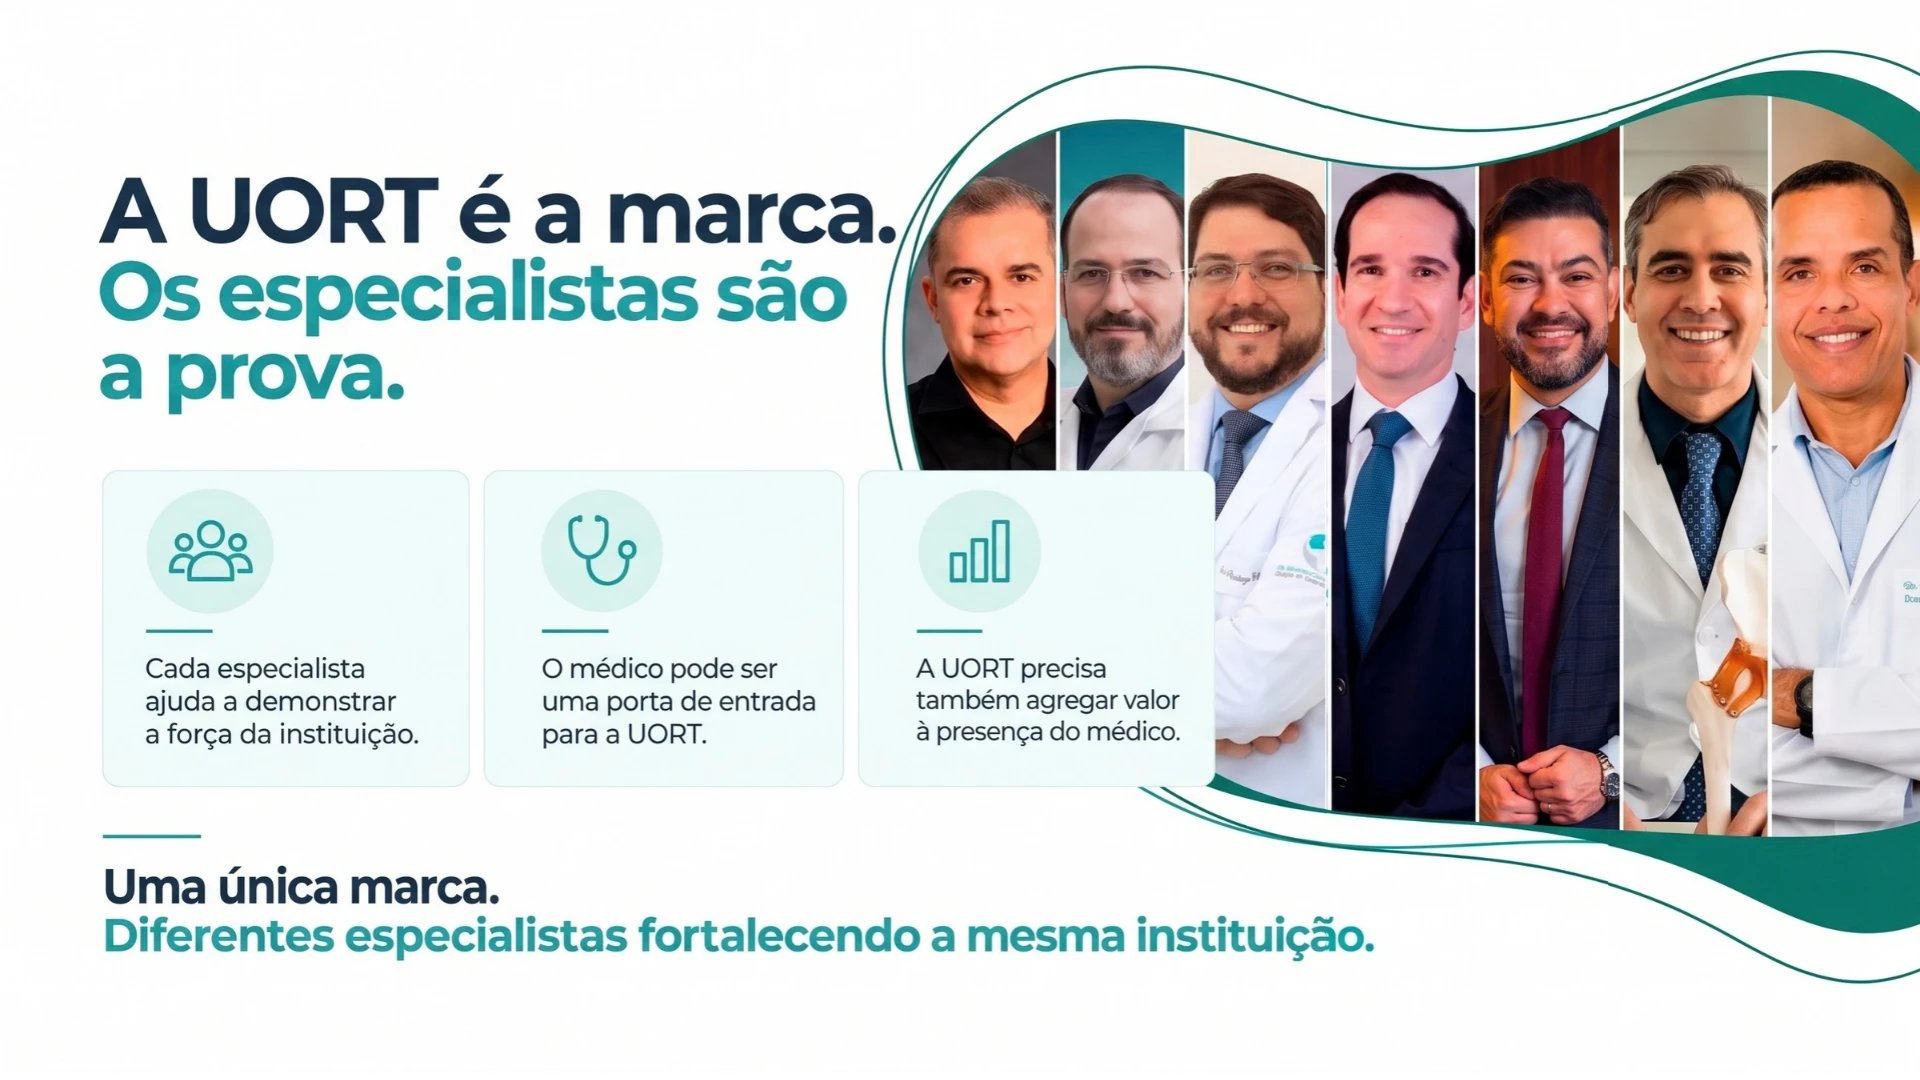
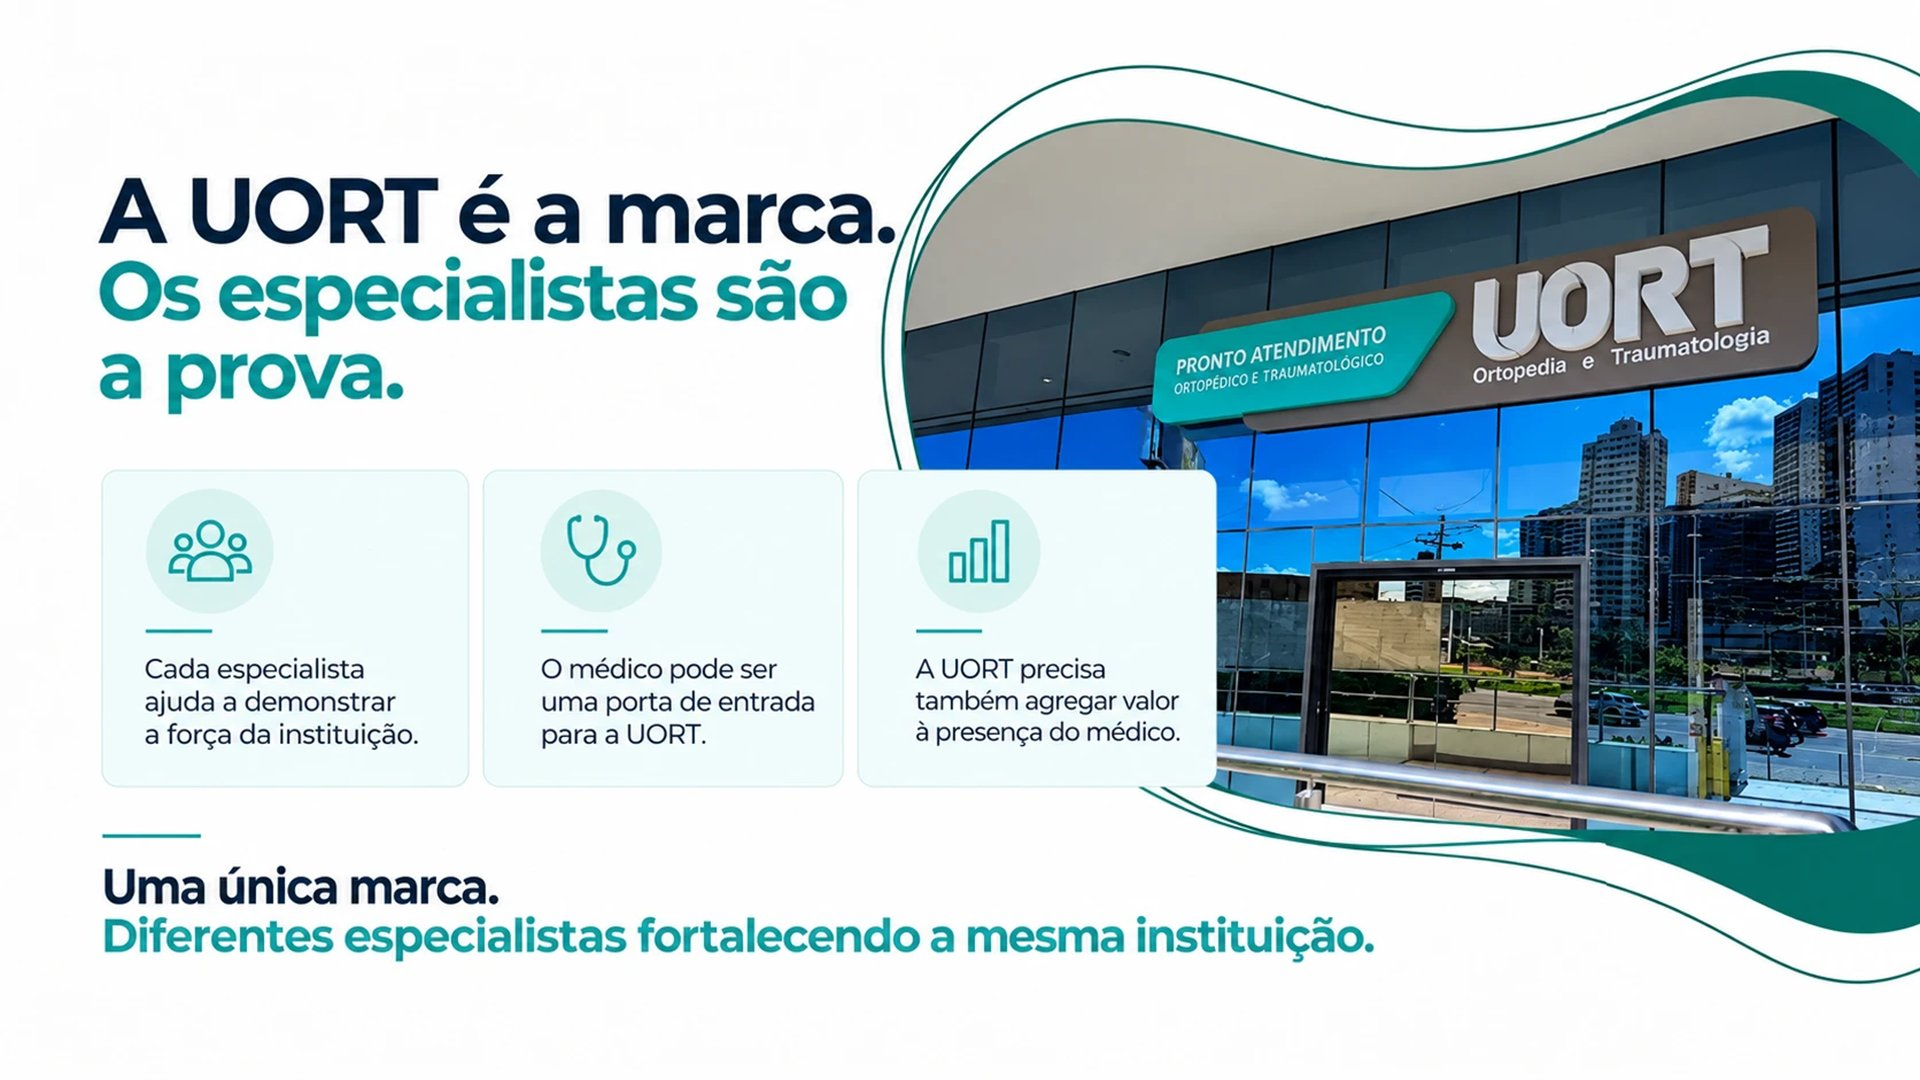
Nova lâmina 5: "A UORT é a marca" com a fachada da UORT

diff --git a/js/data.js b/js/data.js
@@ -24,7 +24,7 @@ window.DECK = {
     2:  { t: 'Contexto & Diagnóstico', d: 'O cenário atual da UORT, os desafios da operação e os objetivos estratégicos.', divider: true },
     3:  { t: 'A UORT reúne em uma mesma estrutura', d: 'Subespecialidades da ortopedia, pronto atendimento, consultas ambulatoriais, infiltrações e bloqueios, PRP, fisioterapia e reabilitação. O desafio agora é fazer tudo isso ser percebido como parte de uma única marca.', key: true, k: 'serviços estrutura prp fisioterapia' },
     4:  { t: 'O que a UORT é × o que o público percebe', d: 'A UORT tem estrutura ampla, corpo clínico especializado e serviços que vão além da consulta. A comunicação ainda mostra presença pouco organizada, percepção limitada da marca e baixa tradução da real dimensão da estrutura.', key: true, k: 'percepção diagnóstico' },
-    5:  { t: 'A UORT é a marca. Os especialistas são a prova.', d: 'Cada especialista ajuda a demonstrar a força da instituição e pode ser uma porta de entrada para a UORT — que também precisa agregar valor à presença do médico.', k: 'médicos corpo clínico' },
+    5:  { t: 'A UORT é a marca. Os especialistas são a prova.', d: 'Cada especialista ajuda a demonstrar a força da instituição e pode ser uma porta de entrada para a UORT — que também precisa agregar valor à presença do médico. Uma única marca: diferentes especialistas fortalecendo a mesma instituição.', k: 'médicos corpo clínico fachada pronto atendimento' },
     6:  { t: 'O desafio não é apenas de comunicação', d: 'Existe uma necessidade concreta de ocupação e geração de demanda: o Pronto Atendimento tem capacidade instalada muito superior ao volume atual. O crescimento precisa vir em duas direções — demanda individual e volume contratado.', key: true, k: 'demanda convênios parcerias pronto atendimento' },
     7:  { t: 'Prioridades do marketing', d: '01 Pronto Atendimento · 02 Gerar novos pacientes · 03 Fortalecer a marca UORT · 04 Divulgar procedimentos e tratamentos. O Pronto Atendimento é o serviço que mais precisa ganhar visibilidade neste momento.', key: true, k: 'objetivos metas pronto atendimento' },
     8:  { t: 'Posicionamento & Conceito', d: 'A construção de uma narrativa única em torno do movimento e do cuidado ortopédico completo.', divider: true },
